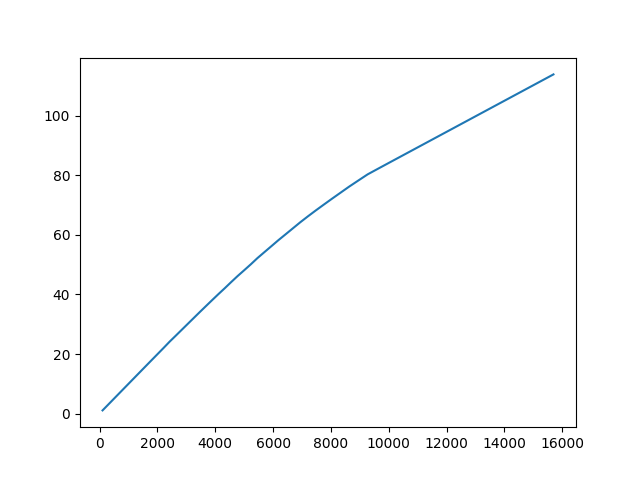
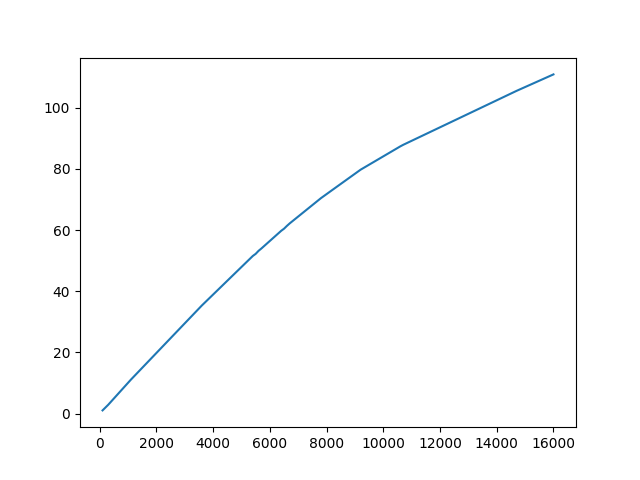
update

diff --git a/deep_regression_plot.py b/deep_regression_plot.py
@@ -25,7 +25,7 @@ def main():
         sys.exit()
 
     # 学習データセットファイル取得
-    x, y = load_dataset(csvfile)
+    x, y = load_csv(csvfile)
 
     # 学習モデルファイルパス取得
     savefile = sys.argv[1]
@@ -66,9 +66,9 @@ def main():
     plt.savefig('dnn_xy_figure.png')
 
 
-def load_dataset(dataset_file):
+def load_csv(csvfile):
     # csvをロードし、変数に格納
-    df = pd.read_csv(dataset_file)
+    df = pd.read_csv(csvfile)
     dfv = df.values.astype(np.float64)
     n_dfv = dfv.shape[1]
 

diff --git a/deep_regression_train.py b/deep_regression_train.py
@@ -13,11 +13,11 @@ import os
 import time
 
 # バッチサイズ設定
-n_bs = 4
+n_bs = 8
 # 中間層ニューロン数設定
-n_units = 50
+n_units = 5
 # エポック数
-nb_epochs = 500
+nb_epochs = 2000
 # csvファイルパス取得
 csvfile = 'dataset/train.csv'
 
